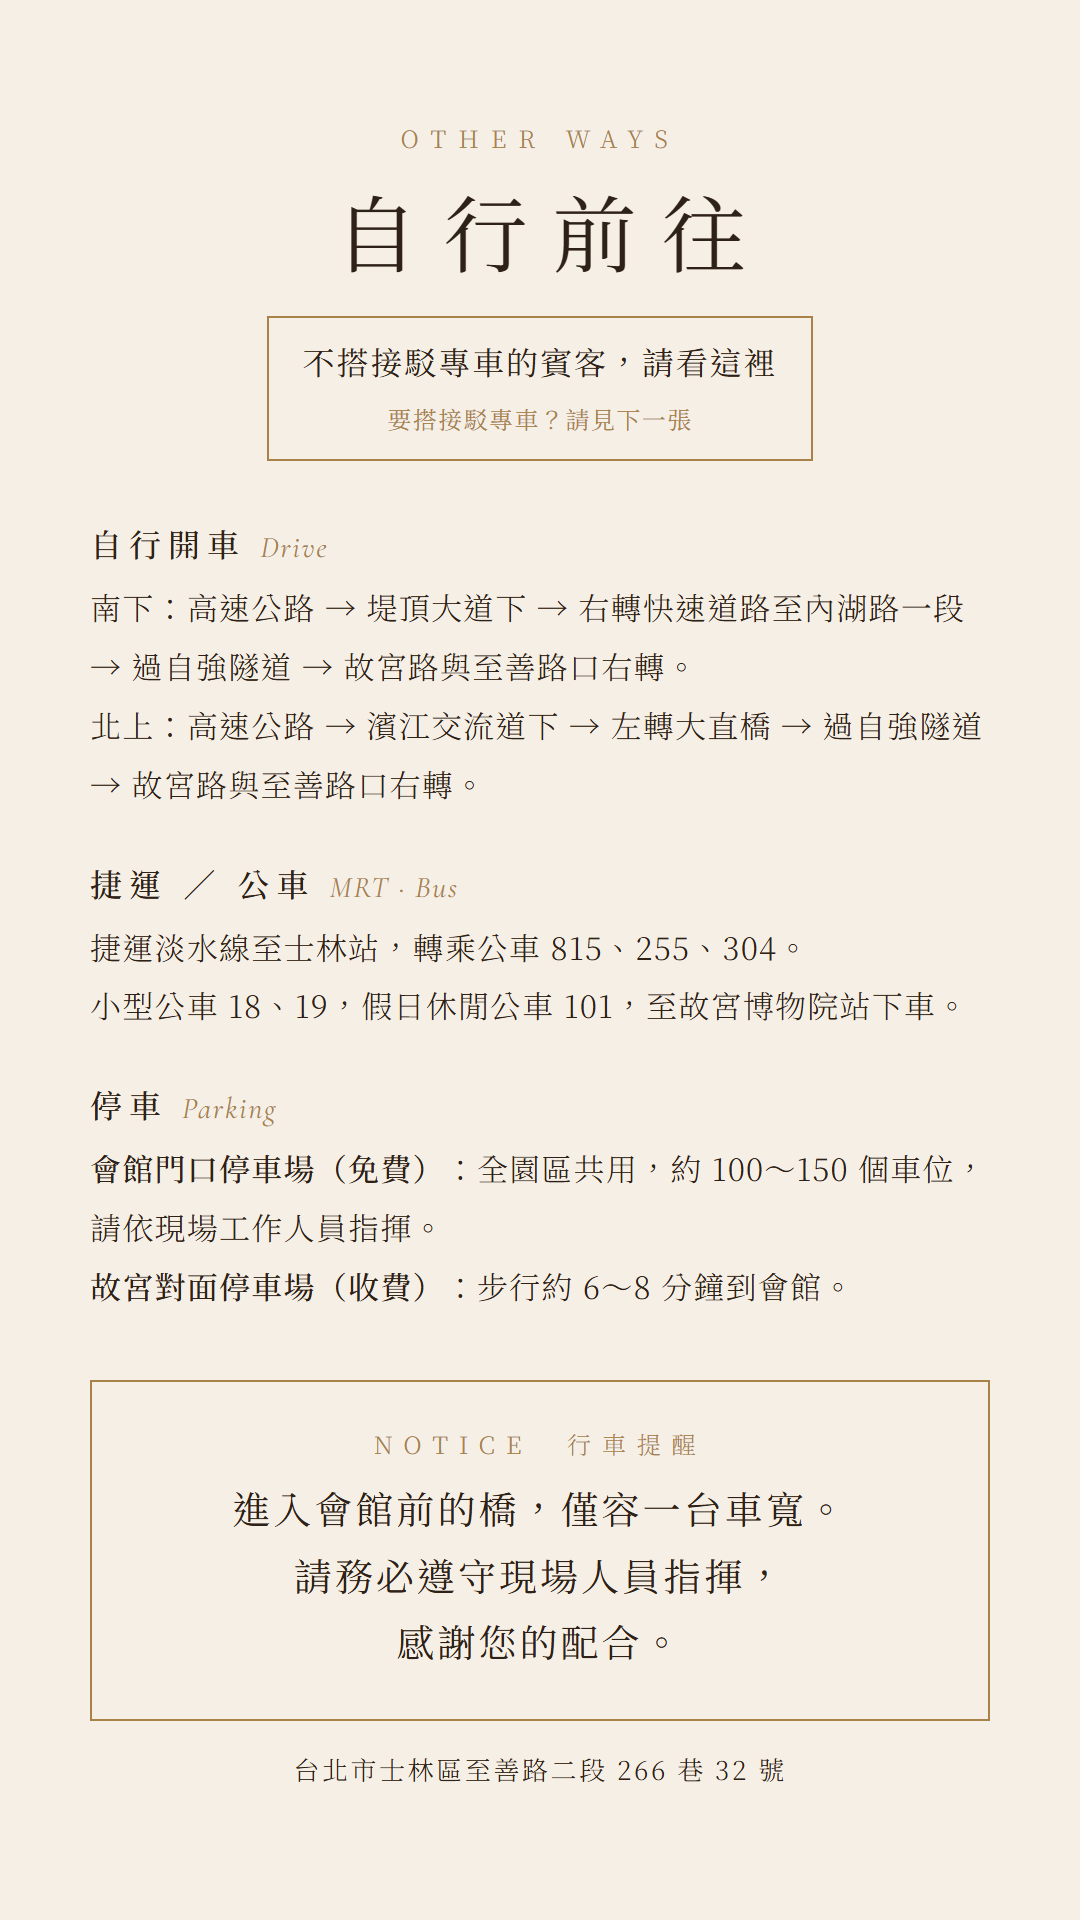
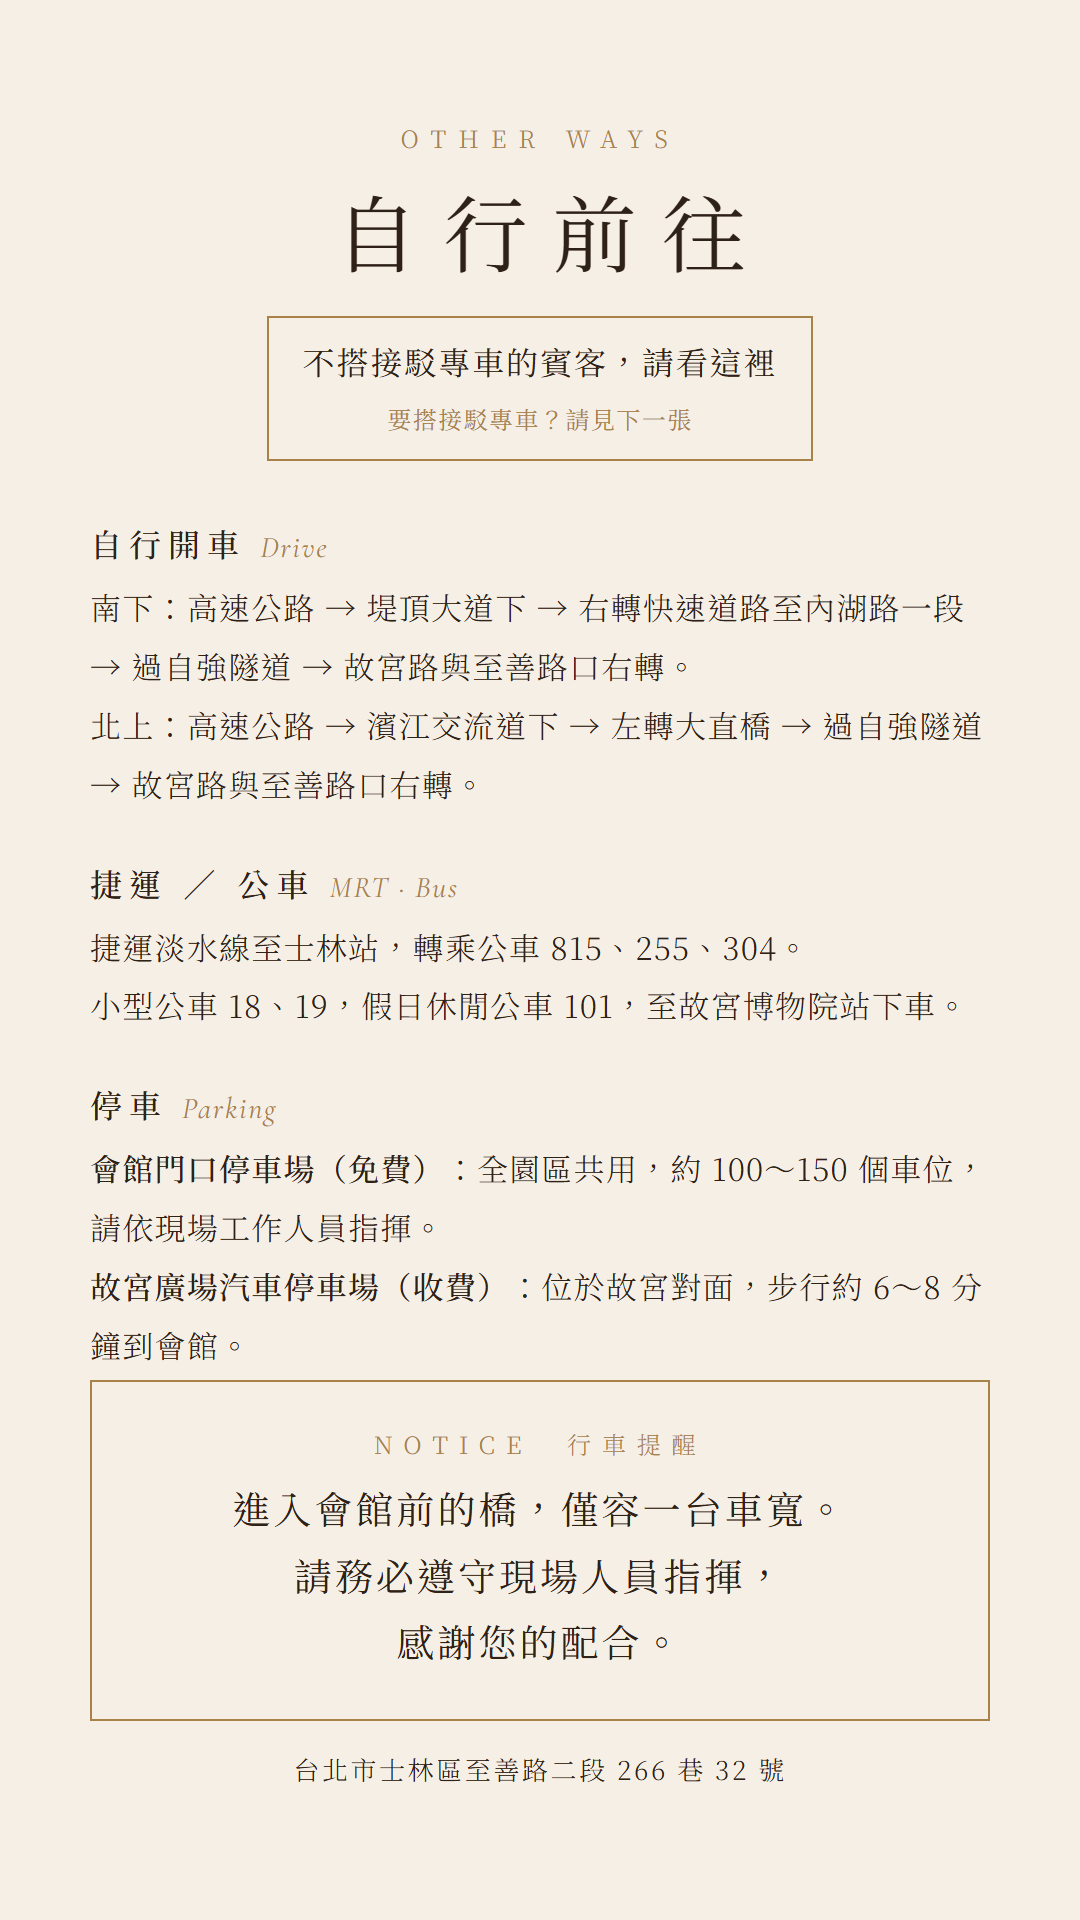
Annotate venue map parking lots; use official name for the paid lot

Changed region(s): [[0.0917, 0.6562, 0.7944, 0.7188], [0.8861, 0.6562, 0.9167, 0.6875]]

diff --git a/index.html b/index.html
@@ -255,8 +255,8 @@ footer p{margin-top:10px;font-size:13px;letter-spacing:.3em;color:var(--gold)}
       <p>就在會館門口（位置圖上的 P）。<br>全園區共用，約 100～150 個車位，<b>請依現場工作人員指揮停車</b>。</p>
     </div>
     <div class="pk">
-      <div class="pk-t">故宮對面停車場<i>收費</i></div>
-      <p>停好車後，步行約 <b>6～8 分鐘</b>到會館。</p>
+      <div class="pk-t">故宮廣場汽車停車場<i>收費</i></div>
+      <p>位於故宮對面。停好車後，步行約 <b>6～8 分鐘</b>到會館。</p>
       <div class="btns" style="justify-content:flex-start;margin-top:10px"><a class="btn" target="_blank" rel="noopener" href="https://share.google/tY9CMV5aRvQbJRizh">查看停車場位置</a></div>
     </div>
   </div>
@@ -275,7 +275,7 @@ footer p{margin-top:10px;font-size:13px;letter-spacing:.3em;color:var(--gold)}
   <div class="eyebrow">MAP</div>
   <h2 style="font-family:var(--serif);font-style:normal;font-weight:400;letter-spacing:.3em;margin-left:.3em;font-size:28px">場地位置</h2>
   <a href="img/venue-map.jpg" target="_blank" rel="noopener"><img class="mapimg" src="img/venue-map.jpg" alt="青青食尚花園會館 位置示意圖：至善路二段 266 巷 32 號"></a>
-  <p style="font-size:12px;letter-spacing:.2em;color:var(--gold);margin-top:8px">點圖可放大</p>
+  <p style="font-size:12px;letter-spacing:.2em;color:var(--gold);margin-top:8px">點圖可放大　停車位置為示意，請依現場指示</p>
   <p class="mapcap">青青食尚花園會館<br><span>台北市士林區至善路二段 266 巷 32 號</span></p>
   <div class="btns" style="margin-top:18px">
     <a class="btn fill" target="_blank" rel="noopener" href="https://www.google.com/maps/search/?api=1&query=%E5%A3%AB%E6%9E%97%E9%9D%92%E9%9D%92%E9%A3%9F%E5%B0%9A%E8%8A%B1%E5%9C%92%E6%9C%83%E9%A4%A8">開啟地圖導航</a>
